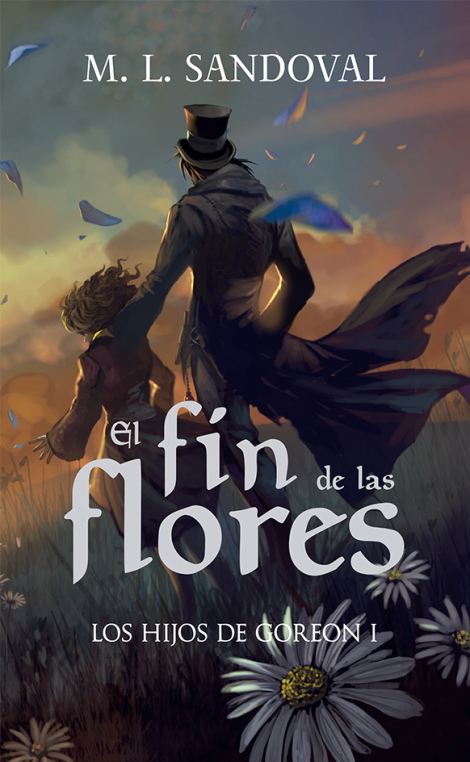
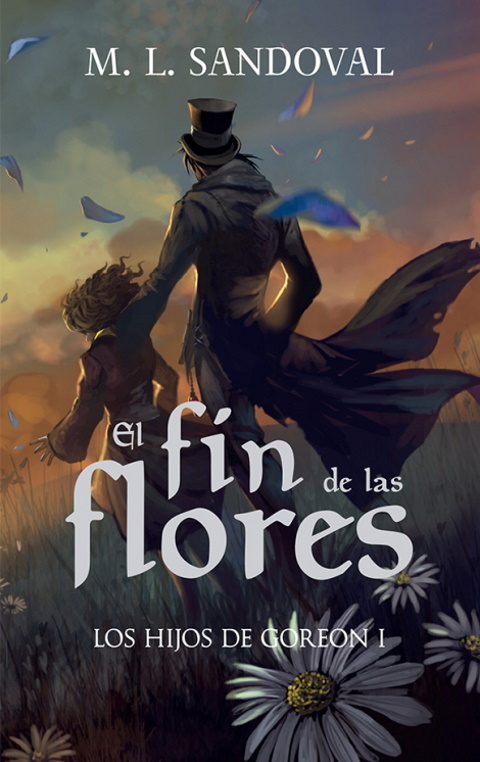
Add: Posicionamiento correcto de portadas con grid Meta información de cada libro correcta en su posicion sobre la portada

diff --git a/home.html b/home.html
@@ -44,7 +44,130 @@
         <section class="category-section">
             <h1 class="section-title">Novedades</h1>
             <article class="book-container">
+                <a class="book-link" href="./ficha.html">
+                    <div class="book-cover">
+                        <img src="./img/books/9788435061155.jpg" alt="">
+                    </div>
+                    <div class="book-detail" title="Ficha del libro">
+                        <h2 class="book-title">Northumbria - El último reino</h2>
+                        <div class="book-meta">
+                            <div class="rating">4/5</div>
+                            <div class="category">Scifi</div>
+                            <div class="pub-date">2018</div>
+                            <div class="autor">Bernard Cornwell</div>
+                        </div>
+                        <p class="book-desc">En el 866 Uthred, un joven anglosajón de ascendencia aristocrática, vive escindido entre dos mundos antagónicos..</p>
+                    </div>
+                </a>
+            </article>
+            <article class="book-container">
                 <a href="./ficha.html">
+                    <div class="book-cover">
+                        <img src="./img/books/9789560920508.jpg" alt="">
+                    </div>
+                    <div class="book-detail" title="Ficha del libro">
+                        <h2 class="book-title">Viajeros - Antología Chilena de Ciencia Ficción</h2>
+                        <div class="book-meta">
+                            <div class="rating">4/5</div>
+                            <div class="category">Scifi</div>
+                            <div class="pub-date">2018</div>
+                            <div class="autor">Varios Autores</div>
+                        </div>
+                        <p class="book-desc">Ignición Editorial presenta en esta primera antología un culto a la ciencia ficción clásica y moderna.</p>
+                    </div>
+                </a>
+            </article>
+            <article class="book-container">
+                <a href="./ficha.html">
+                    <div class="book-cover">
+                        <img src="./img/books/9789563585964.jpg" alt="">
+                    </div>
+                    <div class="book-detail" title="Ficha del libro">
+                        <h2 class="book-title">Braindance</h2>
+                        <div class="book-meta">
+                            <div class="rating">4/5</div>
+                            <div class="category">Terror</div>
+                            <div class="pub-date">2015</div>
+                            <div class="autor">Guillermo Pereira</div>
+                        </div>
+                        <p class="book-desc">Braindance y otros escalofriantes relatos es una obra que invita, desde otros estados de conciencia, a ser parte de una realidad paralela</p>
+                    </div>
+                </a>
+            </article>
+            <article class="book-container">
+                <a href="./ficha.html">
+                    <div class="book-cover">
+                        <img src="./img/books/9789569362163.jpg" alt="">
+                    </div>
+                    <div class="book-detail" title="Ficha del libro">
+                        <h2 class="book-title">El Fin de las Flores</h2>
+                        <div class="book-meta">
+                            <div class="rating">4/5</div>
+                            <div class="category">Fantasía</div>
+                            <div class="pub-date">2018</div>
+                            <div class="autor">M. L. Sandoval</div>
+                        </div>
+                        <p class="book-desc">El fin de las flores es la reinterpretación, aumentada y corregida de la laureada Pétalos para Darién</p>
+                    </div>
+                </a>
+            </article>
+            <article class="book-container">
+                <a href="./ficha.html">
+                    <div class="book-cover">
+                        <img src="./img/books/9788445003701.jpg" alt="">
+                    </div>
+                    <div class="book-detail" title="Ficha del libro">
+                        <h2 class="book-title">El tiempo de la noche</h2>
+                        <div class="book-meta">
+                            <div class="rating">4/5</div>
+                            <div class="category">Terror</div>
+                            <div class="pub-date">1960</div>
+                            <div class="autor">William Sloane</div>
+                        </div>
+                        <p class="book-desc">Una nueva interpretación del mito de la diosa de las tinieblas a través de Selena, una moderna Artemisa.</p>
+                    </div>
+                </a>
+            </article>
+            <article class="book-container">
+                <a href="./ficha.html">
+                    <div class="book-cover">
+                        <img src="./img/books/9789878000152.jpg" alt="">
+                    </div>
+                    <div class="book-detail" title="Ficha del libro">
+                        <h2 class="book-title">Harry Potter y el misterio del príncipe</h2>
+                        <div class="book-meta">
+                            <div class="rating">4/5</div>
+                            <div class="category">Juvenil</div>
+                            <div class="pub-date">2005</div>
+                            <div class="autor">J. K. Rowling</div>
+                        </div>
+                        <p class="book-desc">Con diecis&eacute;is a&ntilde;os cumplidos, Harry inicia el sexto curso en Hogwarts en medio de terribles acontecimientos que asolan Inglaterra. </p>
+                    </div>
+                </a>
+            </article>
+            <article class="book-container">
+                <a href="./ficha.html">
+                    <div class="book-cover">
+                        <img src="./img/books/9788492918188.jpg" alt="">
+                    </div>
+                    <div class="book-detail" title="Ficha del libro">
+                        <h2 class="book-title">Una obsesión perversa</h2>
+                        <div class="book-meta">
+                            <div class="rating">4/5</div>
+                            <div class="category">Juvenil</div>
+                            <div class="pub-date">2005</div>
+                            <div class="autor">V. E. Schwab</div>
+                        </div>
+                        <p class="book-desc">Con diecis&eacute;is a&ntilde;os cumplidos, Harry inicia el sexto curso en Hogwarts en medio de terribles acontecimientos que asolan Inglaterra. </p>
+                    </div>
+                </a>
+            </article>
+        </section>
+
+        <section class="category-section">
+            <h1 class="section-title">Novelas</h1>
+            <article class="book-container">
+                <a class="book-link" href="./ficha.html">
                     <div class="book-cover">
                         <img src="./img/books/9788435061155.jpg" alt="">
                     </div>

diff --git a/css/home.css b/css/home.css
@@ -1,26 +1,60 @@
 .main {
     margin-top: var(--navbar-height);
+    /* height: calc(100vh - 2*var(--navbar-height)); */
+    background-color: #F8F1FF;
 }
 
 .category-section {
     display: grid;
     margin: 0 auto;
-    grid-template-columns: repeat(auto-fill, minmax(200px, 1fr));
-    grid-auto-rows: minmax(150px, auto);
-    gap: 1rem;
-    justify-items: start;
+    grid-template-columns: repeat(auto-fill, minmax(250px, 1fr));
+    grid-auto-rows: minmax(1rem, auto);
+    gap: .5rem;
+    justify-items: start;    
+}
+
+.book-cover {
+    display: flex;
+    align-items: center;
+    border: 1px var(--dark-purple) solid;
+}
+
+.book-cover > img {
+    /* padding: .1rem; */
+    width: auto;
+    object-fit: contain;
 }
 
 .section-title {
+    height: 1rem;
     margin: 0;
     padding-left: .5rem;
+    margin-top: 1rem;
+    margin-bottom: 1rem;
     grid-column: 1 / -1;
 }
 
 .book-container {
+    position: relative;
     padding: .5rem;
 }
 
 .book-container > a {
     text-decoration: none;
 }
+
+.book-detail {
+    position: absolute;
+    background-color: black;
+    opacity: .7;
+    color: white;
+    bottom: .5rem;
+    width: calc(100% - 1rem);
+    padding: .5rem;
+}
+
+.book-meta {
+    display: flex;
+    justify-content: space-around;
+}
+

diff --git a/css/header-footer.css b/css/header-footer.css
@@ -2,12 +2,14 @@
     background-color: var(--dark-purple);
     color: white;
     height: var(--navbar-height); 
+    position: relative;
 }
 
 .footer {
     display: flex;
     justify-content: center;
     align-items: center;
+    width: 100%;
 }
 
 .footer a {

diff --git a/css/navbar.css b/css/navbar.css
@@ -9,6 +9,7 @@
     display: flex;
     justify-content: space-between;
     align-items: center;
+    z-index: 99;
 }
 
 .burger-label {
